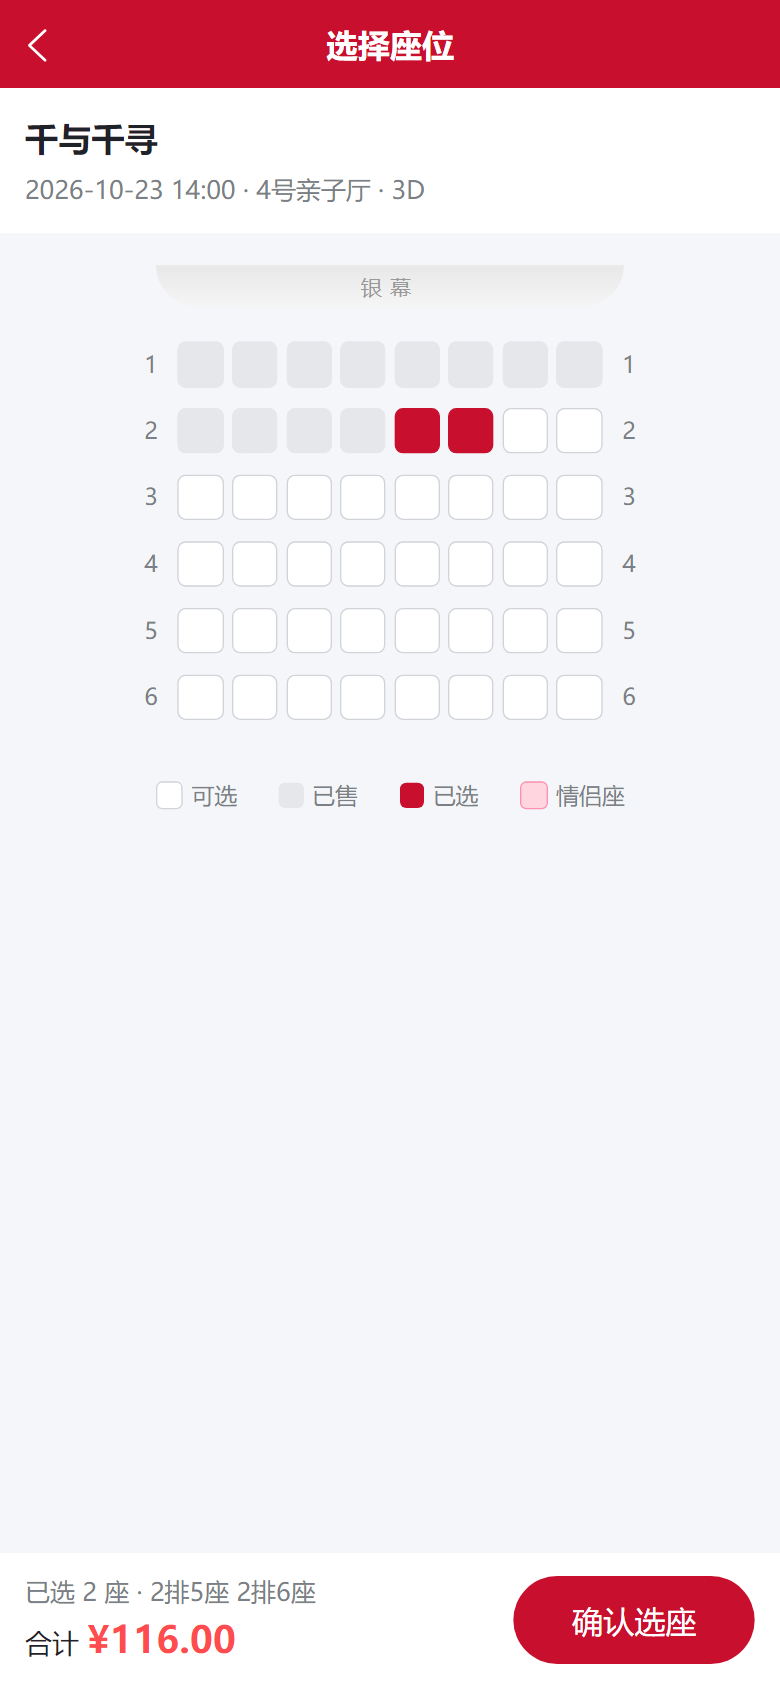
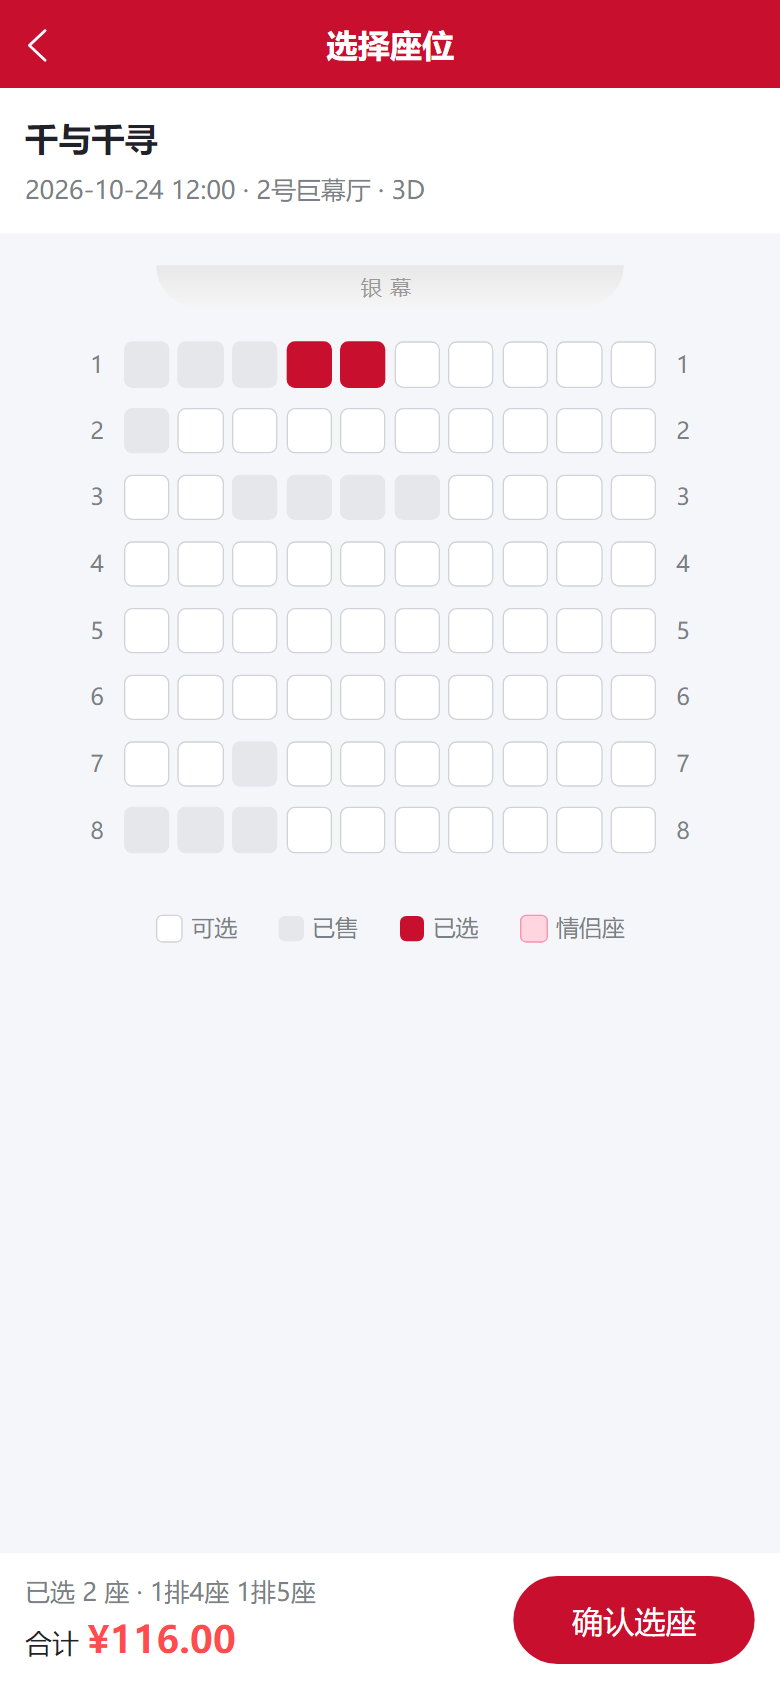
feat(server): 新增定时占座任务，模拟真实售票场景
- 每天 02:00 为未来场次按 10%-45% 起售率随机占用座位，优先同排连座
- 以系统账号 system_booking 真实下单（已完成状态），座位图/余票/冲突校验复用原有链路
- 随机种子由场次 ID + 日期决定，重复执行幂等；每场至少保留 4 个空位
- 执行后校正 sold_seat 计数，修复历史订单删除导致的计数失真
- 服务启动时先执行一次，支持 npm run occupy 手动触发

diff --git a/server/jobs/occupySeats.js b/server/jobs/occupySeats.js
@@ -1,0 +1,216 @@
+// 模拟真实售票：每天定时为未来场次随机占用一部分座位
+// 占用方式为真实落库（系统账号下单，订单状态=已完成），因此座位图、余票、下单校验全部自动生效
+const bcrypt = require('bcryptjs');
+const pool = require('../config/db');
+
+const SYSTEM_USERNAME = 'system_booking'; // 系统占座账号，不用于登录
+const MIN_RATE = 0.10; // 起售率下限（10%）
+const MAX_RATE = 0.45; // 起售率上限（45%）
+const KEEP_FREE = 4; // 每场至少保留的空位数，保证总有座位可选
+const GROUP_MAX = 4; // 单笔订单最多连座数
+const DAILY_HOUR = 2; // 每天 02:00 执行
+
+// 固定种子的伪随机数，保证同一天重复执行结果一致（幂等）
+function mulberry32(seed) {
+  let a = seed;
+  return function () {
+    a |= 0;
+    a = (a + 0x6d2b79f5) | 0;
+    let t = Math.imul(a ^ (a >>> 15), 1 | a);
+    t = (t + Math.imul(t ^ (t >>> 7), 61 | t)) ^ t;
+    return ((t ^ (t >>> 14)) >>> 0) / 4294967296;
+  };
+}
+
+function daySeed(showtimeId, date) {
+  const d = String(date).replace(/-/g, '');
+  return showtimeId * 131 + Number(d);
+}
+
+function genOrderNo(seq) {
+  return 'S' + Date.now().toString(36).toUpperCase() + String(seq).padStart(4, '0');
+}
+
+// 获取或创建系统占座账号
+async function ensureSystemUser(conn) {
+  const [rows] = await conn.query('SELECT id FROM user WHERE username = ?', [SYSTEM_USERNAME]);
+  if (rows.length) return rows[0].id;
+  const pwd = bcrypt.hashSync(require('crypto').randomBytes(12).toString('hex'), 10);
+  const [r] = await conn.query(
+    'INSERT INTO user(username, password, nickname, status) VALUES (?,?,?,0)',
+    [SYSTEM_USERNAME, pwd, '系统占座']
+  );
+  return r.insertId;
+}
+
+// 优先挑选同排连座，找不到连座则随机挑
+function pickSeats(freeSeats, n, rand) {
+  const byRow = new Map();
+  for (const s of freeSeats) {
+    if (!byRow.has(s.seat_row)) byRow.set(s.seat_row, []);
+    byRow.get(s.seat_row).push(s);
+  }
+  const candidates = [];
+  for (const arr of byRow.values()) {
+    arr.sort((a, b) => a.seat_col - b.seat_col);
+    for (let i = 0; i + n <= arr.length; i++) {
+      let ok = true;
+      for (let k = 1; k < n; k++) {
+        if (arr[i + k].seat_col !== arr[i + k - 1].seat_col + 1) { ok = false; break; }
+      }
+      if (ok) candidates.push(arr.slice(i, i + n));
+    }
+  }
+  if (candidates.length) return candidates[Math.floor(rand() * candidates.length)];
+
+  const pool2 = freeSeats.slice();
+  for (let i = pool2.length - 1; i > 0; i--) {
+    const j = Math.floor(rand() * (i + 1));
+    [pool2[i], pool2[j]] = [pool2[j], pool2[i]];
+  }
+  return pool2.slice(0, n);
+}
+
+// 为单个场次补足已售座位
+async function occupyShowtime(conn, st, systemUserId, seqRef) {
+  const rand = mulberry32(daySeed(st.id, st.show_date));
+
+  const [seats] = await conn.query(
+    'SELECT id, seat_row, seat_col FROM seat WHERE hall_id = ? AND status = 1 ORDER BY seat_row, seat_col',
+    [st.hall_id]
+  );
+  if (!seats.length) return 0;
+
+  const [sold] = await conn.query(
+    `SELECT DISTINCT oi.seat_id FROM order_item oi
+     JOIN orders o ON o.id = oi.order_id
+     WHERE oi.showtime_id = ? AND oi.status = 1 AND o.status IN (1,2)`,
+    [st.id]
+  );
+  const soldSet = new Set(sold.map(s => s.seat_id));
+
+  const total = seats.length;
+  const maxSold = Math.max(total - KEEP_FREE, 0);
+  const target = Math.min(
+    Math.max(Math.round(total * (MIN_RATE + rand() * (MAX_RATE - MIN_RATE))), 4),
+    maxSold
+  );
+
+  let need = target - soldSet.size;
+  if (need <= 0) return 0;
+
+  const freeSeats = seats.filter(s => !soldSet.has(s.id));
+  need = Math.min(need, freeSeats.length);
+  if (need <= 0) return 0;
+
+  let added = 0;
+  let free = freeSeats;
+  while (added < need && free.length) {
+    const qty = Math.min(1 + Math.floor(rand() * GROUP_MAX), need - added, free.length);
+    const picked = pickSeats(free, qty, rand);
+    if (!picked.length) break;
+
+    const ids = new Set(picked.map(s => s.id));
+    free = free.filter(s => !ids.has(s.id));
+
+    const amount = (Number(st.price) * picked.length).toFixed(2);
+    const [orderResult] = await conn.query(
+      `INSERT INTO orders(order_no, user_id, movie_id, cinema_id, hall_id, showtime_id,
+                          total_amount, ticket_qty, status, created_at, paid_at)
+       VALUES (?,?,?,?,?,?,?,?,2, NOW(), NOW())`,
+      [genOrderNo(++seqRef.n), systemUserId, st.movie_id, st.cinema_id, st.hall_id, st.id, amount, picked.length]
+    );
+    for (const seat of picked) {
+      await conn.query(
+        'INSERT INTO order_item(order_id, showtime_id, seat_id, price, status) VALUES (?,?,?,?,1)',
+        [orderResult.insertId, st.id, seat.id, st.price]
+      );
+    }
+    added += picked.length;
+  }
+
+  if (added > 0) {
+    await conn.query(
+      'UPDATE showtime SET sold_seat = ? WHERE id = ?',
+      [soldSet.size + added, st.id]
+    );
+  }
+  return added;
+}
+
+// 执行一次占座任务
+async function run() {
+  const conn = await pool.getConnection();
+  const startedAt = Date.now();
+  try {
+    const [showtimes] = await conn.query(
+      `SELECT s.* FROM showtime s
+       WHERE s.status = 1
+         AND (s.show_date > CURDATE() OR (s.show_date = CURDATE() AND s.show_time > CURTIME()))
+       ORDER BY s.show_date, s.show_time`
+    );
+    if (!showtimes.length) {
+      console.log('[占座任务] 没有可售场次，跳过');
+      return { showtimes: 0, seats: 0 };
+    }
+
+    const systemUserId = await ensureSystemUser(conn);
+    const seqRef = { n: 0 };
+    let seatCount = 0;
+    let touched = 0;
+
+    await conn.beginTransaction();
+    try {
+      for (const st of showtimes) {
+        const added = await occupyShowtime(conn, st, systemUserId, seqRef);
+        if (added > 0) { seatCount += added; touched++; }
+      }
+      // 校正已售计数（历史订单删除等情况下 sold_seat 可能失真）
+      await conn.query(
+        `UPDATE showtime s SET s.sold_seat = (
+           SELECT COUNT(*) FROM order_item oi
+           JOIN orders o ON o.id = oi.order_id
+           WHERE oi.showtime_id = s.id AND oi.status = 1 AND o.status IN (1, 2)
+         )`
+      );
+      await conn.commit();
+    } catch (e) {
+      await conn.rollback();
+      throw e;
+    }
+
+    const cost = ((Date.now() - startedAt) / 1000).toFixed(1);
+    console.log(`[占座任务] 完成：${touched}/${showtimes.length} 场有新增占用，共占用 ${seatCount} 个座位，耗时 ${cost}s`);
+    return { showtimes: showtimes.length, seats: seatCount };
+  } finally {
+    conn.release();
+  }
+}
+
+// 每天定时执行（服务启动时先跑一次，保证演示数据即时生效）
+function scheduleDaily(hour = DAILY_HOUR, minute = 0) {
+  const nextDelay = () => {
+    const now = new Date();
+    const next = new Date(now);
+    next.setHours(hour, minute, 0, 0);
+    if (next <= now) next.setDate(next.getDate() + 1);
+    return next - now;
+  };
+  const tick = async () => {
+    try {
+      await run();
+    } catch (e) {
+      console.error('[占座任务] 执行失败:', e.message);
+    }
+    setTimeout(tick, nextDelay());
+  };
+  setTimeout(tick, nextDelay());
+  console.log(`[占座任务] 已启动，每天 ${String(hour).padStart(2, '0')}:${String(minute).padStart(2, '0')} 自动执行`);
+}
+
+module.exports = { run, scheduleDaily };
+
+// 支持手动执行：node jobs/occupySeats.js
+if (require.main === module) {
+  run().then(() => process.exit(0)).catch(e => { console.error(e.message); process.exit(1); });
+}

diff --git a/server/app.js b/server/app.js
@@ -33,4 +33,9 @@ app.use(errorHandler);
 const PORT = process.env.PORT || 3000;
 app.listen(PORT, () => {
   console.log(`后端服务已启动: http://localhost:${PORT}`);
+
+  // 模拟真实售票：启动时先补一次，之后每天 02:00 自动执行
+  const { run, scheduleDaily } = require('./jobs/occupySeats');
+  run().catch(e => console.error('[占座任务] 首次执行失败:', e.message));
+  scheduleDaily();
 });

diff --git a/README.md b/README.md
@@ -76,6 +76,7 @@
 │   ├── middleware/             # auth（JWT）、errorHandler
 │   ├── routes/                 # auth / movie / showtime / order / chat
 │   ├── agent/                  # tools（工具定义）、agent（调用编排）、confirm（待确认动作）
+│   ├── jobs/occupySeats.js     # 定时占座（模拟真实售票）
 │   └── utils/response.js
 ├── database/
 │   ├── init.sql                # 建库建表 + 影院/影厅/座位 + 演示用户
@@ -173,6 +174,13 @@ npm start                   # http://localhost:3000
 | `QWEN_API_KEY` | 通义千问 API Key（不配置时助手会返回友好提示） |
 | `QWEN_MODEL` | 默认 `qwen-plus` |
 
+启动时会自动执行一次「定时占座」（为未来场次补充已售座位），之后每天 02:00 自动执行。
+需要手动触发时：
+
+```bash
+npm run occupy
+```
+
 ### 4. 启动前端（H5）
 
 ```bash
@@ -257,6 +265,11 @@ npm run build:mp-weixin     # 产物：app/dist/build/mp-weixin
 - **取票二维码**：`qrcode-generator` 生成矩阵后用 view 网格渲染，规避 canvas 在 H5 双端的绘制时机问题。
 - **场次排期无冲突**：7 厅 × 7 天 × 7 时段生成组合，同一影厅同一时段只排一部影片，
   同一「日期 + 时段」内各影厅影片互不相同。
+- **模拟真实售票**（`server/jobs/occupySeats.js`）：每天 02:00 为未来场次随机占用座位，
+  让座位图出现「已售」灰块，贴近真实购票场景。占用以系统账号 `system_booking` 真实下单
+  （订单状态 = 已完成），因此座位图、余票数、下单冲突校验全部走原有链路，无需特殊分支。
+  细节：每场按 10%–45% 的起售率随机占用、优先选同排连座、每场至少留 4 个空位、
+  随机种子由场次 ID + 日期决定（重复执行不会重复占座）、执行后校正 `sold_seat` 计数。
 
 ---
 

diff --git a/docs/运行截图.md b/docs/运行截图.md
@@ -52,6 +52,7 @@
 ![选择座位](screenshots/07-seat.png)
 
 - 座位状态：可选 / 已售 / 已选 / 情侣座，四种状态用不同颜色区分
+- 图中灰色座位为定时占座任务模拟的其他观众已购票位，不可再选
 - 支持多选（上限 6 座），底部实时显示「已选 N 座 · 排座明细」与合计金额
 
 ---
